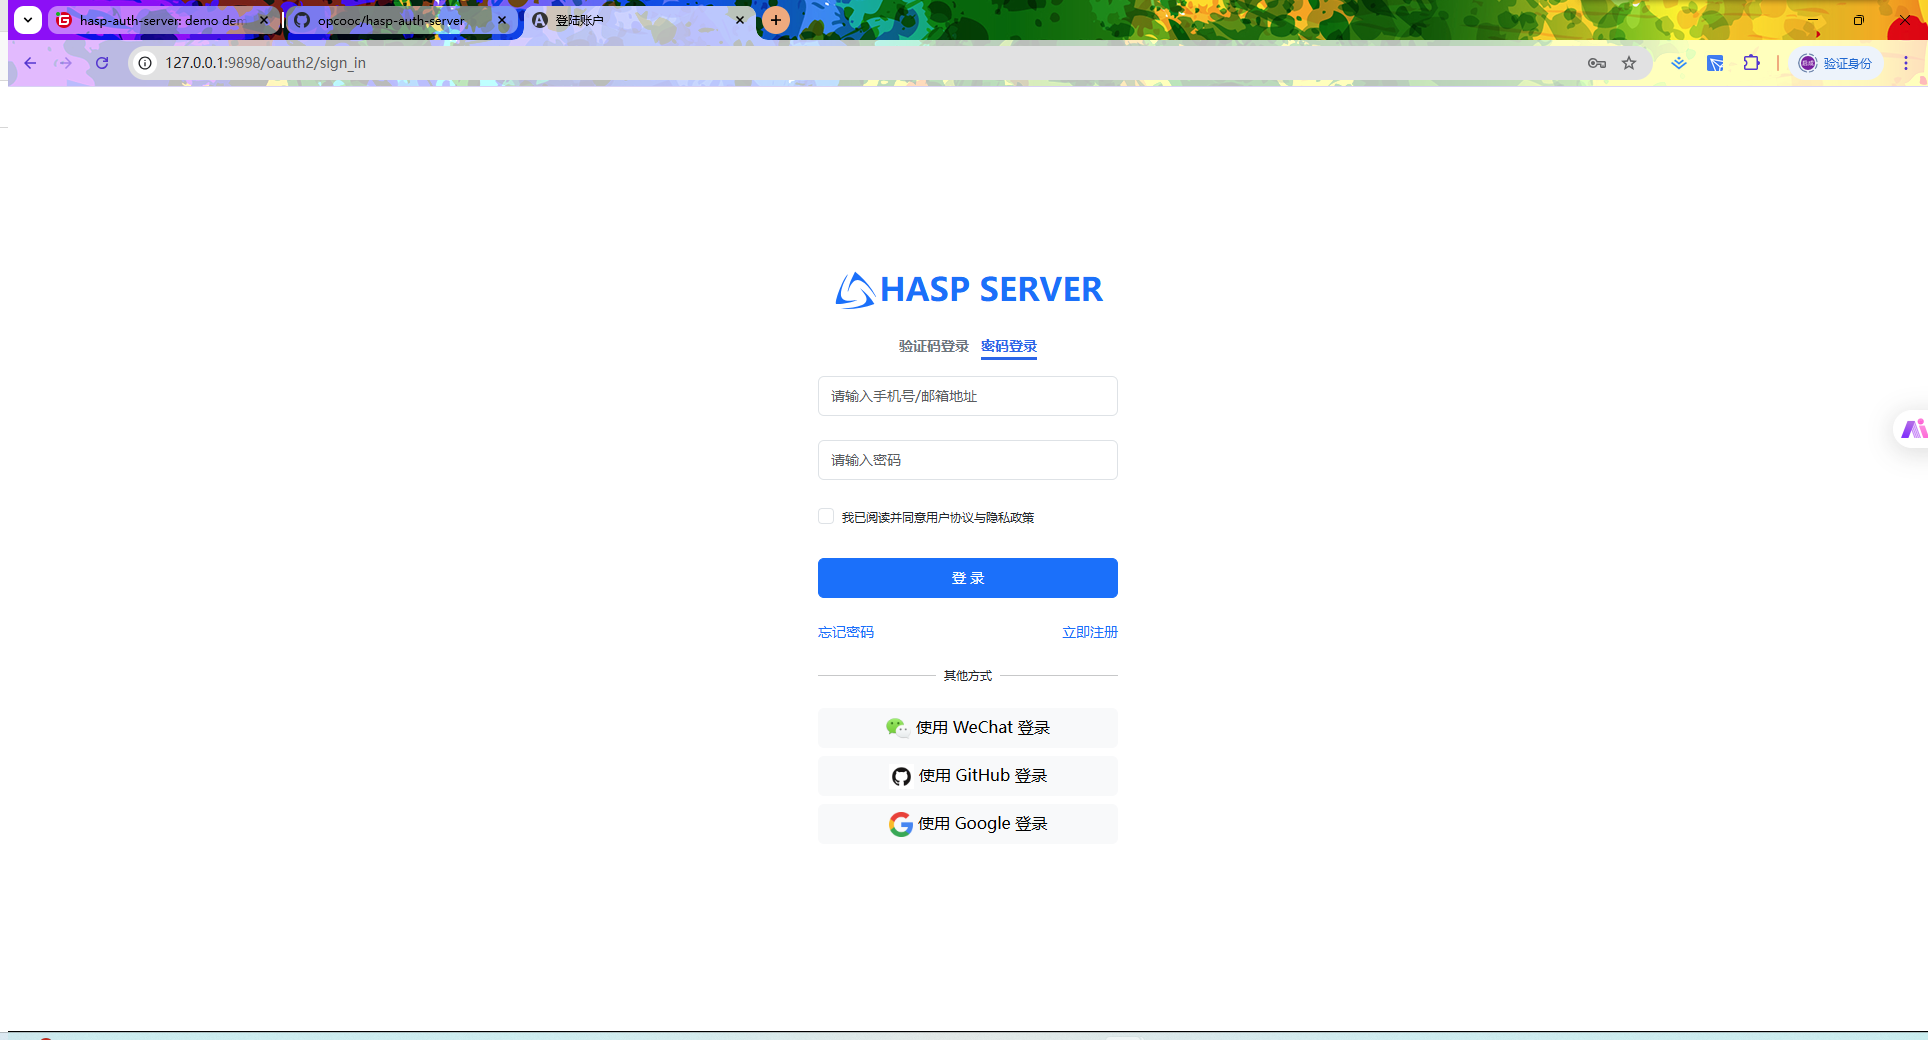
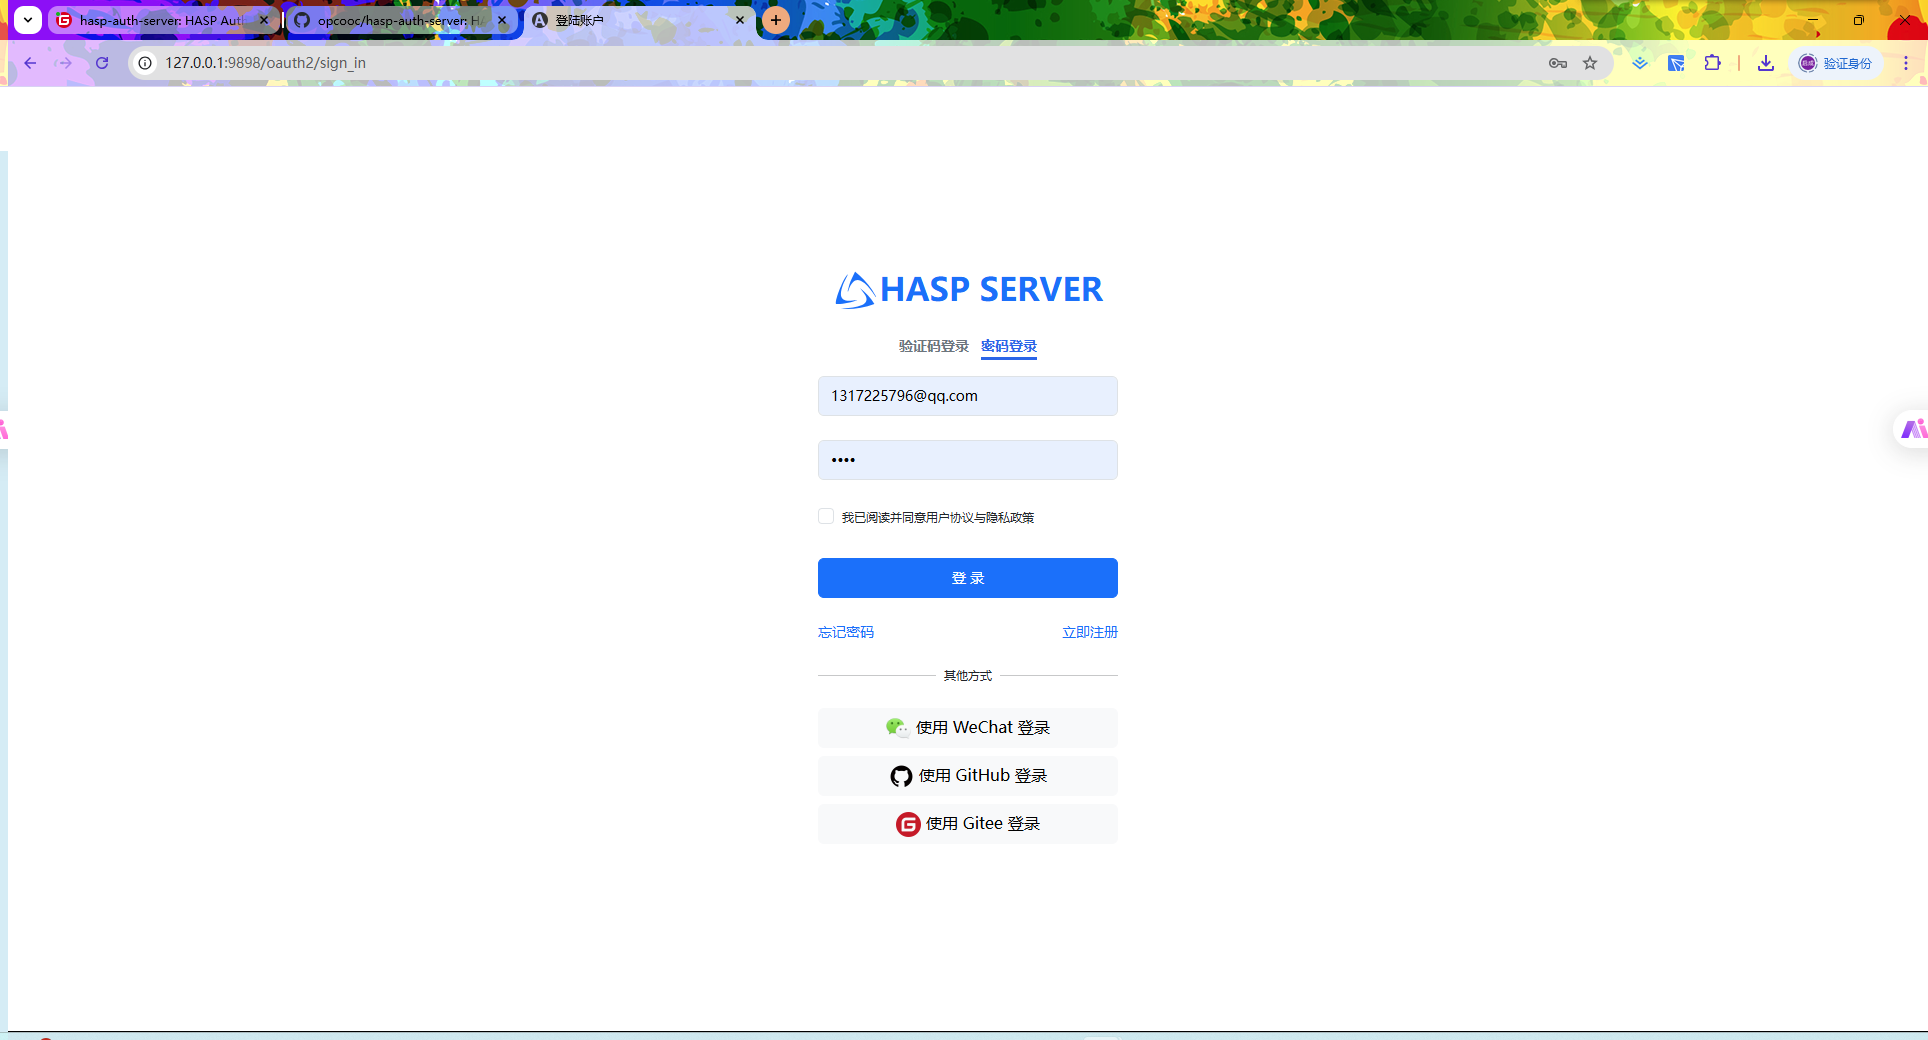
feat(config): 添加环境变量配置支持并优化应用配置
- 为 Redis、OAuth2、HASP等配置项添加环境变量支持
- 更新 JustAuth 配置，支持 Gitee 登录- 调整登录界面，替换 Google 登录为 Gitee 登录
- 移除 HttpUtils 中未使用的导入
-简化 OauthController 中的 signUp 方法

diff --git a/src/main/resources/templates/sign_in.html b/src/main/resources/templates/sign_in.html
@@ -252,8 +252,8 @@
         <a class="mb-2 h-40px btn btn-light w-100" href='/oauth2/federated/authorize/github'>
             <img src="/assets/images/github.png" height="25" alt="Sign in with GitHub"> 使用 GitHub 登录
         </a>
-        <a class="mb-2 h-40px btn btn-light w-100" href='/oauth2/federated/authorize/google'>
-            <img src="/assets/images/google.png" height="25" alt="Sign in with Google"> 使用 Google 登录
+        <a class="mb-2 h-40px btn btn-light w-100" href='/oauth2/federated/authorize/gitee'>
+            <img src="/assets/images/gitee.png" height="25" alt="Sign in with Gitee"> 使用 Gitee 登录
         </a>
     </div>
 </div>

diff --git a/src/main/java/org/hasp/server/controller/OauthController.java b/src/main/java/org/hasp/server/controller/OauthController.java
@@ -42,12 +42,8 @@ public class OauthController {
     @GetMapping(SecurityConstants.OAUTH_SIGN_UP_PAGE_URI)
     public String signUp(Model model,
                          @SessionAttribute(value = SecurityConstants.AUTH_FEDERATED_USER, required = false) AuthUser authUser) {
-        model.addAttribute("requestURI", authUser == null
-                ? SecurityConstants.OAUTH_LOGIN_URI
-                : SecurityConstants.OAUTH_FEDERATED_REGISTER_URI);
-        model.addAttribute("signUpTitle", authUser == null
-                ? "手机号注册"
-                : "绑定手机号");
+        model.addAttribute("requestURI", authUser == null ? SecurityConstants.OAUTH_LOGIN_URI : SecurityConstants.OAUTH_FEDERATED_REGISTER_URI);
+        model.addAttribute("signUpTitle", authUser == null ? "手机号注册" : "绑定手机号");
         return "sign_up";
     }
 

diff --git a/src/main/java/org/hasp/server/utils/HttpUtils.java b/src/main/java/org/hasp/server/utils/HttpUtils.java
@@ -1,14 +1,10 @@
 package org.hasp.server.utils;
 
 import jakarta.servlet.http.HttpServletRequest;
-import okhttp3.*;
 import org.springframework.security.authentication.InternalAuthenticationServiceException;
 import org.springframework.web.context.request.RequestAttributes;
 import org.springframework.web.context.request.RequestContextHolder;
 import org.springframework.web.context.request.ServletRequestAttributes;
-
-import java.io.IOException;
-import java.util.concurrent.TimeUnit;
 
 public class HttpUtils {
 

diff --git a/README.md b/README.md
@@ -31,7 +31,6 @@ swagger-ui: `http://127.0.0.1:9898/swagger-ui/index.html`
 授权URL: `http://127.0.0.1:9898/oauth2/authorize?response_type=code&scope=profile%20openid&client_id=demo&redirect_uri=http://127.0.0.1:9527/home&state=8a0781548e7f76ae018e94e450982413`
 <br/>
 
-
 #### 内存启动时的内置账户信息
 | 描述                | 信息                                                                 |
 |---------------------|--------------------------------------------------------------------|
@@ -39,7 +38,7 @@ swagger-ui: `http://127.0.0.1:9898/swagger-ui/index.html`
 | 密码   | `password`                                                         |
 | client_id   | `demo`                                                             |
 | client_secret   | `demo`                                                             |
-| redirect_uri   | `http://127.0.0.1:9527/home` 代码MemoryTransferClientRepository文件可更改 |
+| redirect_uri   | `http://127.0.0.1:9527/home` MemoryTransferClientRepository文件可更改 |
 ## 项目截图
 
 <p align="center">
@@ -277,14 +276,14 @@ JustAuth 通过其统一的 API 进行认证授权，在本项目中已经实现
           client-id: your-client-id
           client-secret: your-client-secret
           redirect-uri: http://127.0.0.1:9898/oauth2/federated/callback/wechat_open
-        GOOGLE:
+        GITEE:
           client-id: your-client-id
           client-secret: your-client-secret
-          redirect-uri: http://127.0.0.1:9898/oauth2/federated/callback/github
+          redirect-uri: http://127.0.0.1:9898/oauth2/federated/callback/gitee
         GITHUB:
           client-id: your-client-id
           client-secret: your-client-secret
-          redirect-uri: http://127.0.0.1:9898/oauth2/federated/callback/google
+          redirect-uri: http://127.0.0.1:9898/oauth2/federated/callback/github
 
    ```
 
